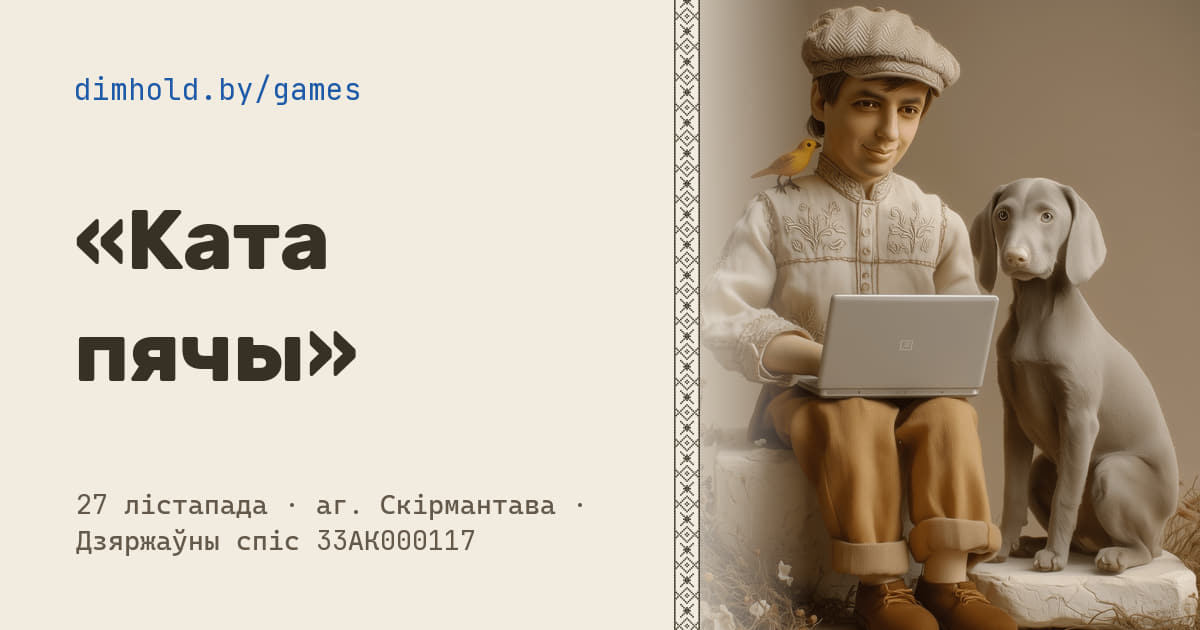
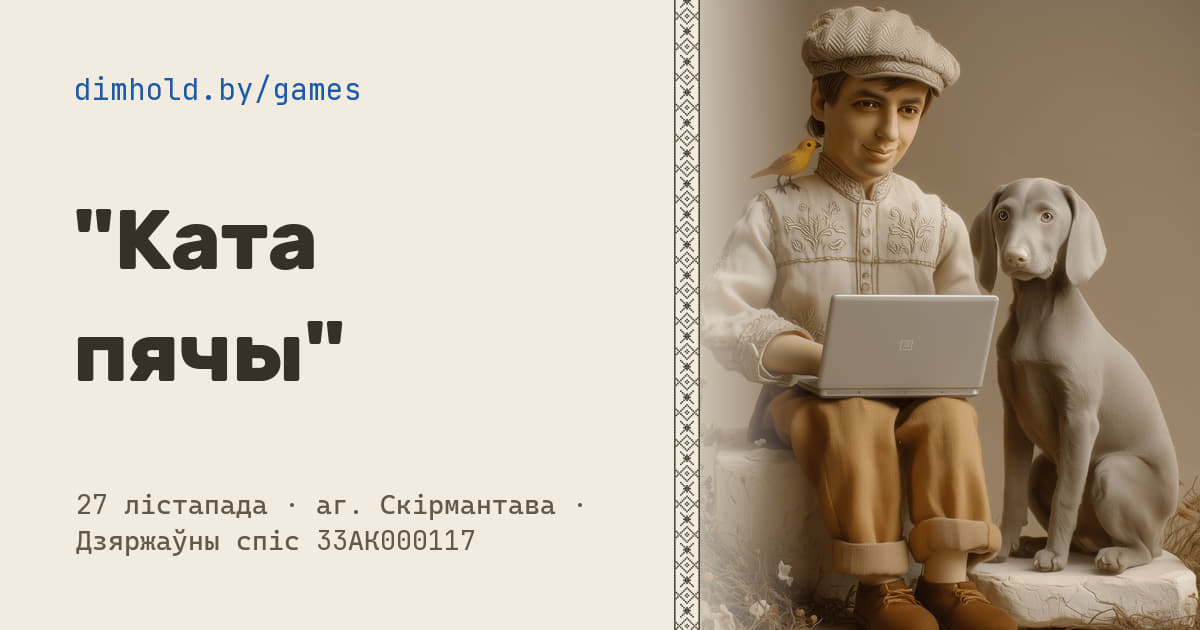
Site audit fixes: preview cards for every post, tables that fit a phone, related posts
- public/og: cards for the 83 posts that linked a file never drawn (404 in every share preview)
- markdown tables are wrapped in a scroll box; long inline code and bare URLs may break
- posts end on 3 related posts instead of on their tags
- one RSS feed per language instead of one feed with every post three times
- titles signed with the name in the page's language, unsigned when already long
- meta description cut on a sentence boundary; illusion pages get lede + what
- 404: no canonical, noindex, answers in the language of the address

Claude-Session: https://claude.ai/code/session_015UEmR31oyTG6QnC1qN2SuL

Changed region(s): [[0.0617, 0.3317, 0.2775, 0.4524], [0.2158, 0.5127, 0.3083, 0.6032], [0.0617, 0.5429, 0.1542, 0.6032]]

diff --git a/src/styles/global.css b/src/styles/global.css
@@ -1411,6 +1411,8 @@ html[data-mode='night'] .post-card:hover .post-card-title {
 }
 
 .prose a {
+  /* Bare URLs in reference lists are one unbreakable word otherwise. */
+  overflow-wrap: anywhere;
   color: var(--accent-deep);
   text-decoration: underline;
   text-decoration-thickness: 1.5px;
@@ -1428,6 +1430,9 @@ html[data-mode='night'] .prose a {
   border: 1px solid var(--line);
   border-radius: 6px;
   padding: 0.08em 0.35em;
+  /* A hash or a long call inside a sentence has no place to break, and on a
+     phone it used to push the page sideways. */
+  overflow-wrap: anywhere;
 }
 
 .prose pre {
@@ -1439,6 +1444,7 @@ html[data-mode='night'] .prose a {
 }
 
 .prose pre code {
+  overflow-wrap: normal;
   background: none;
   border: 0;
   padding: 0;
@@ -1485,6 +1491,13 @@ html[data-mode='night'] .astro-code span {
 .nf h1 {
   font-size: clamp(2rem, 6vw, 3.2rem);
   font-weight: 800;
+}
+
+.nf-links {
+  display: flex;
+  flex-wrap: wrap;
+  justify-content: center;
+  gap: 0.4rem 1.4rem;
 }
 
 /* ——— figures inside prose: inline SVG diagrams with a caption ——— */
@@ -3920,10 +3933,18 @@ html[data-mode='night'] .kata-sound[aria-pressed='true'] {
   font-weight: 700;
 }
 
+/* The scroll box every markdown table is wrapped in. A paper keeps its plain
+   ruled tables, so the box loses the card look it has in a blog post. */
+.paper-body .table-wrap {
+  margin: 1.4rem 0;
+  border: 0;
+  border-radius: 0;
+  background: none;
+}
+
 .paper-body table {
   width: 100%;
   border-collapse: collapse;
-  margin: 1.4rem 0;
   font-size: 0.9rem;
 }
 
@@ -4072,6 +4093,10 @@ html[data-mode='night'] .kata-sound[aria-pressed='true'] {
   .paper-body table,
   .paper-body pre {
     break-inside: avoid;
+  }
+
+  .prose .table-wrap {
+    overflow: visible;
   }
 
   a {
@@ -4245,6 +4270,20 @@ html[data-mode='night'] .tag-pill[aria-current='page'] {
   margin-top: 2.4rem;
   padding-top: 1.4rem;
   border-top: 1px solid var(--line);
+}
+
+/* The few posts offered once this one is read. */
+.post-more {
+  margin-top: 2.6rem;
+}
+
+.post-more-label {
+  font-family: var(--font-mono);
+  font-size: 0.78rem;
+  font-weight: 500;
+  letter-spacing: 0.04em;
+  text-transform: lowercase;
+  color: var(--muted);
 }
 
 /* ——— cards, now that a card holds links of its own ——— */

diff --git a/src/lib/meta.ts b/src/lib/meta.ts
@@ -1,0 +1,43 @@
+import type { Lang } from '../i18n';
+
+/* What ends up in <title> and <meta name="description">. A search result shows
+   about 60 characters of one and 160 of the other; the rest is cut mid-word or
+   thrown away and rewritten. */
+
+const NAME: Record<Lang, string> = {
+  en: 'Dmitriy Semenkevich',
+  ru: 'Дмитрий Семенкевич',
+  be: 'Дзмітрый Семенкевіч',
+};
+
+const TITLE_MAX = 70;
+const DESC_MAX = 165;
+
+/**
+ * A page title signed with the author's name in the page's own language. A
+ * title that is already a full sentence goes out unsigned: the name would be
+ * the part that gets cut, and the result shows the site name beside it anyway.
+ */
+export function withName(title: string, lang: Lang): string {
+  const signed = `${title}${lang === 'en' ? ' · ' : ' — '}${NAME[lang]}`;
+  return signed.length > TITLE_MAX ? title : signed;
+}
+
+/**
+ * The description cut to what a result shows, on a sentence boundary where one
+ * fits and on a word boundary where the first sentence alone is too long.
+ */
+export function shortDesc(text: string): string {
+  const clean = text.replace(/\s+/g, ' ').trim();
+  if (clean.length <= DESC_MAX) return clean;
+  const sentences = clean.match(/[^.!?]+[.!?]+(?=\s|$)/g) ?? [];
+  let out = '';
+  for (const s of sentences) {
+    if ((out + s).trim().length > DESC_MAX) break;
+    out += s;
+  }
+  out = out.trim();
+  if (out.length >= 60) return out;
+  const cut = clean.slice(0, DESC_MAX - 1);
+  return cut.slice(0, cut.lastIndexOf(' ')).replace(/[,;:—–-]+$/, '').trim() + '…';
+}

diff --git a/src/i18n/index.ts b/src/i18n/index.ts
@@ -250,6 +250,8 @@ export interface Dictionary {
     searchFound: string;
     searchClear: string;
     tagsLabel: string;
+    /** Heading over the few posts offered at the end of a post. */
+    related: string;
     /** Carries {tag}, the label of the tag in this language. */
     taggedWith: string;
     tagBack: string;
@@ -393,6 +395,7 @@ export const en: Dictionary = {
     searchFound: '{n} found',
     searchClear: 'clear',
     tagsLabel: 'Tags',
+    related: 'More like this',
     taggedWith: 'Tagged {tag}',
     tagBack: 'all writing',
     archiveLabel: 'Archive',
@@ -1022,6 +1025,7 @@ export const ru: Dictionary = {
     searchFound: 'найдено: {n}',
     searchClear: 'очистить',
     tagsLabel: 'Теги',
+    related: 'Ещё по теме',
     taggedWith: 'Тег: {tag}',
     tagBack: 'все статьи',
     archiveLabel: 'Архив',
@@ -1651,6 +1655,7 @@ export const be: Dictionary = {
     searchFound: 'знойдзена: {n}',
     searchClear: 'ачысціць',
     tagsLabel: 'Тэгі',
+    related: 'Яшчэ па тэме',
     taggedWith: 'Тэг: {tag}',
     tagBack: 'усе артыкулы',
     archiveLabel: 'Архіў',

diff --git a/src/lib/blog.ts b/src/lib/blog.ts
@@ -63,6 +63,26 @@ export async function translationsOf(post: Post): Promise<Post[]> {
   return posts.filter((p) => p.data.translationKey === post.data.translationKey);
 }
 
+/**
+ * What to read after this one: the published posts that share the most tags
+ * with it, and among equals the ones written closest to it in time. A post used
+ * to end on its tags, which is a dead end for anyone who came in from a search.
+ */
+export async function relatedTo(post: Post, lang: Lang, count = 3): Promise<Post[]> {
+  const tags = new Set(post.data.tags);
+  const at = post.data.date.getTime();
+  return (await postsFor(lang))
+    .filter((p) => p.data.translationKey !== post.data.translationKey)
+    .map((p) => ({ p, shared: p.data.tags.filter((x) => tags.has(x)).length }))
+    .filter((x) => x.shared > 0)
+    .sort(
+      (a, b) =>
+        b.shared - a.shared || Math.abs(a.p.data.date.getTime() - at) - Math.abs(b.p.data.date.getTime() - at),
+    )
+    .slice(0, count)
+    .map((x) => x.p);
+}
+
 export function langBase(lang: Lang): string {
   return lang === 'en' ? '/blog/' : `/${lang}/blog/`;
 }

diff --git a/src/lib/feed.ts b/src/lib/feed.ts
@@ -1,0 +1,28 @@
+import rss from '@astrojs/rss';
+import type { APIContext } from 'astro';
+import type { Lang } from '../i18n';
+import { dictionaries } from '../i18n';
+import { postsFor, postPath } from './blog';
+
+/**
+ * One feed per language. There used to be a single feed carrying every post
+ * three times over, once in each language, which no reader wants: a subscriber
+ * reads one of them. A post with no translation still appears, in the nearest
+ * language it has, the same way the lists on the site do it.
+ */
+export async function feed(context: APIContext, lang: Lang) {
+  const t = dictionaries[lang];
+  const posts = await postsFor(lang);
+  return rss({
+    title: t.blog.title,
+    description: t.blog.description,
+    site: context.site!,
+    customData: `<language>${lang}</language>`,
+    items: posts.map((p) => ({
+      title: p.data.title,
+      description: p.data.description,
+      pubDate: p.data.date,
+      link: postPath(p),
+    })),
+  });
+}

diff --git a/src/pages/rss.xml.ts b/src/pages/rss.xml.ts
@@ -1,19 +1,4 @@
-import rss from '@astrojs/rss';
 import type { APIContext } from 'astro';
-import { allPosts, postPath } from '../lib/blog';
+import { feed } from '../lib/feed';
 
-export async function GET(context: APIContext) {
-  const posts = await allPosts();
-  return rss({
-    title: 'Dmitriy Semenkevich: writing',
-    description:
-      'Essays and build logs by Dmitriy Semenkevich: AI products that don’t guess, financial engines, web experiments.',
-    site: context.site!,
-    items: posts.map((p) => ({
-      title: p.data.title,
-      description: p.data.description,
-      pubDate: p.data.date,
-      link: postPath(p),
-    })),
-  });
-}
+export const GET = (context: APIContext) => feed(context, 'en');

diff --git a/src/pages/be/rss.xml.ts b/src/pages/be/rss.xml.ts
@@ -1,0 +1,4 @@
+import type { APIContext } from 'astro';
+import { feed } from '../../lib/feed';
+
+export const GET = (context: APIContext) => feed(context, 'be');

diff --git a/src/pages/ru/rss.xml.ts b/src/pages/ru/rss.xml.ts
@@ -1,0 +1,4 @@
+import type { APIContext } from 'astro';
+import { feed } from '../../lib/feed';
+
+export const GET = (context: APIContext) => feed(context, 'ru');
